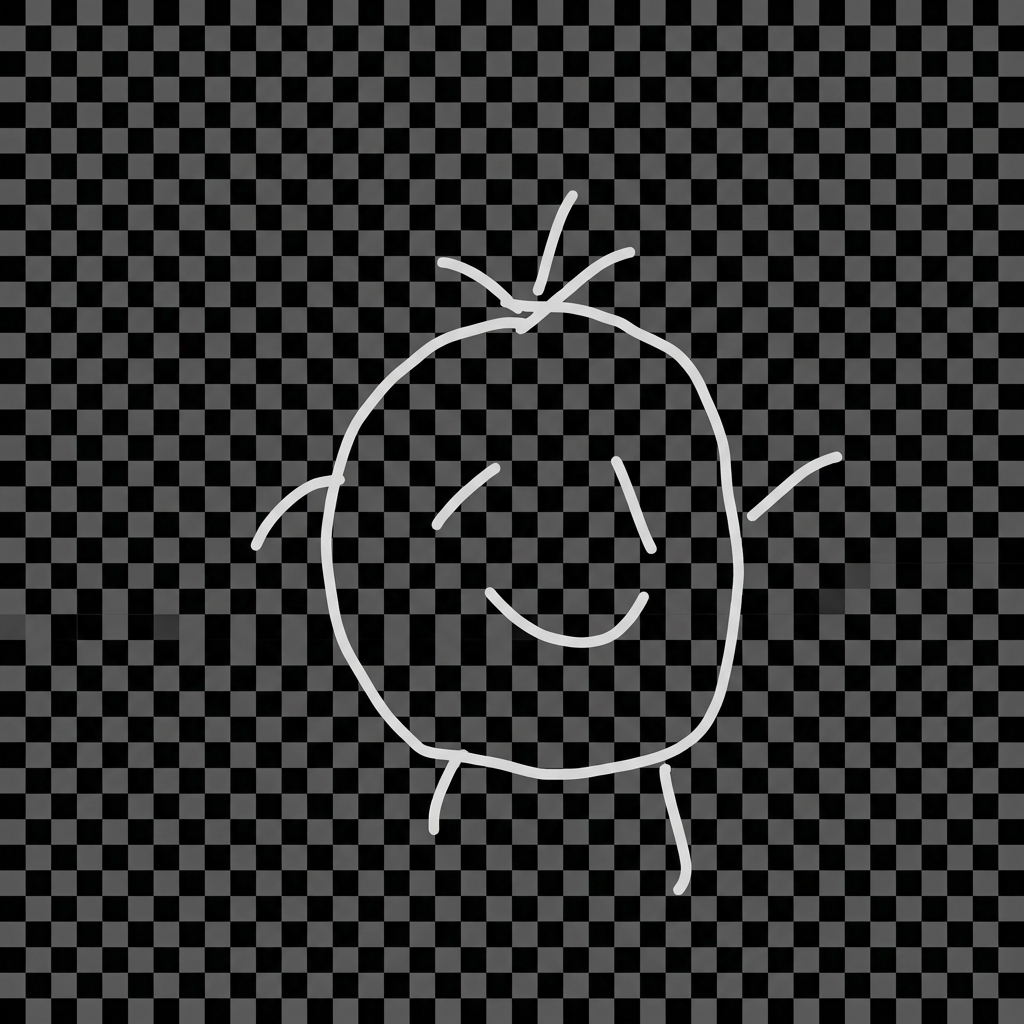
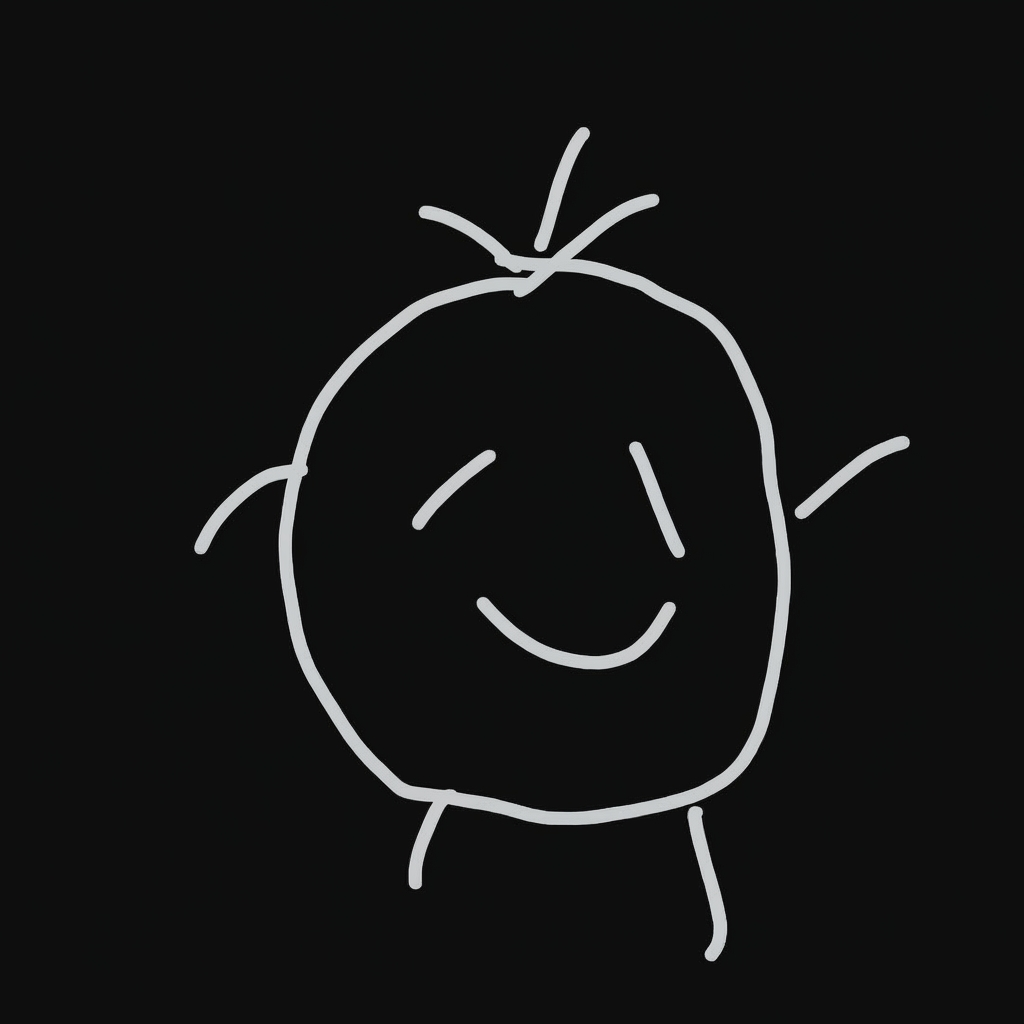
feat: フッターコンポーネントのスタイルとキャラクター画像を追加しました。

diff --git a/app/components/Footer/index.module.css b/app/components/Footer/index.module.css
@@ -1,35 +1,31 @@
 .footer {
   background-color: #0b0b0b;
   border-top: 1px solid rgba(255, 255, 255, 0.15);
-  padding: 24px;
-  padding-left: calc(24px + env(safe-area-inset-left, 0px));
-  padding-right: calc(24px + env(safe-area-inset-right, 0px));
-  padding-bottom: calc(24px + env(safe-area-inset-bottom, 0px));
+  padding: 16px;
+  padding-left: calc(16px + env(safe-area-inset-left, 0px));
+  padding-right: calc(16px + env(safe-area-inset-right, 0px));
+  padding-bottom: calc(16px + env(safe-area-inset-bottom, 0px));
   text-align: center;
   color: #fff;
   font-size: 0.8rem;
-  margin-top: 80px;
+  margin-top: 60px;
 }
 
 .characterWrap {
   display: flex;
   justify-content: center;
-  margin-bottom: 16px;
 }
 
 .character {
-  width: 80px;
-  height: 80px;
+  width: 50px;
+  height: 50px;
   object-fit: contain;
-}
-
-.cr {
-  opacity: 0.7;
+  border-radius: 50%;
 }
 
 @media (max-width: 640px) {
   .character {
-    width: 60px;
-    height: 60px;
+    width: 40px;
+    height: 40px;
   }
 }
